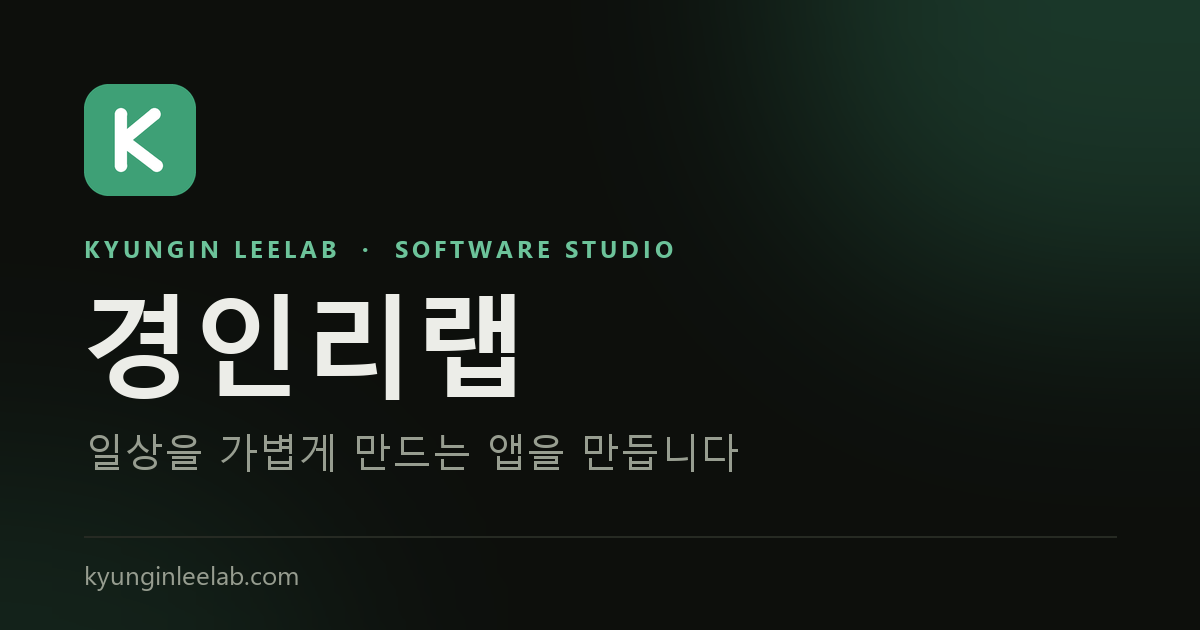
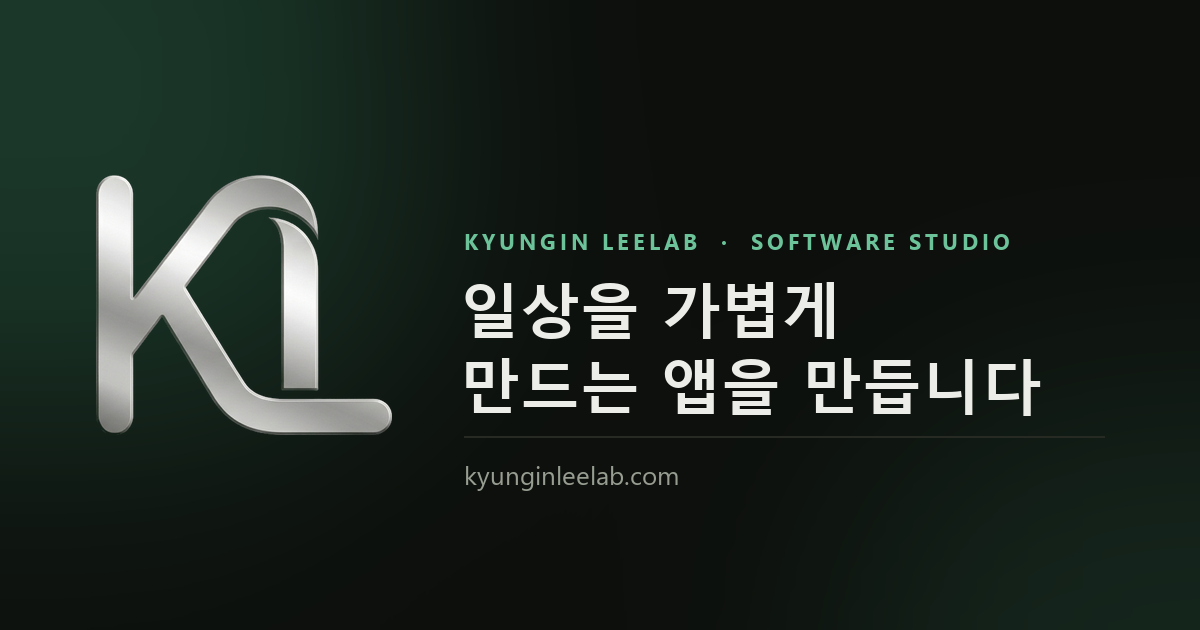
로고를 KL 모노그램(누끼)으로 교체 · 히어로 하단 페이드 보강 · 기능 순서(달력 ↔ 한식) 교체
- public/brand/logo.png(투명 배경) 를 헤더·푸터·404 에 이미지로 사용, 아이콘·파비콘·애플 아이콘·OG 이미지·
  JSON-LD 로고(icon-1024) 재생성. 옛 K 마크 SVG/PNG 제거
- hero-fade: 82% 지점부터 완전한 배경색 — 영상이 끝나는 경계가 하단에 비치던 문제
- CaloSnap features 순서: 달력 → 한식 (스크린샷 짝도 맞음)

Claude-Session: https://claude.ai/code/session_01Kz66iNqtNLXmN9QKuHDjFv

diff --git a/components/logo.tsx b/components/logo.tsx
@@ -1,29 +1,27 @@
-// 경인리랩 마크 — K 모노그램. 배경은 --accent 를 따라가서 라이트/다크 모두 맞는다.
-// 원본 SVG: public/brand/logo-mark.svg (아이콘·OG 이미지도 같은 도형에서 생성)
+import Image from "next/image";
+
+// 원본 public/brand/logo.png (누끼 딴 KL 모노그램) 의 가로/세로 비율
+const ASPECT = 451 / 396;
+
+/** 경인리랩 KL 로고. size = 높이(px). 장식용이라 alt 는 비운다 — 링크 쪽에 aria-label 을 준다. */
 export default function LogoMark({
   size = 28,
   className = "",
+  priority = false,
 }: {
   size?: number;
   className?: string;
+  priority?: boolean;
 }) {
   return (
-    <svg
-      viewBox="0 0 100 100"
-      width={size}
+    <Image
+      src="/brand/logo.png"
+      alt=""
+      width={Math.round(size * ASPECT)}
       height={size}
-      aria-hidden="true"
+      priority={priority}
       className={className}
-    >
-      <rect width="100" height="100" rx="22" fill="var(--accent)" />
-      <path
-        d="M33 27v46M35 50l28-23M35 50l30 23"
-        fill="none"
-        stroke="#fff"
-        strokeWidth="11"
-        strokeLinecap="round"
-        strokeLinejoin="round"
-      />
-    </svg>
+      style={{ height: size, width: "auto" }}
+    />
   );
 }

diff --git a/content/apps.ts b/content/apps.ts
@@ -56,14 +56,14 @@ export const apps: AppEntry[] = [
         body: "식사 기록·통계·사진은 전부 내 폰에만 저장됩니다. 계정에는 구독 정보만 담기고 기록은 서버로 가지 않습니다. AI 분석 순간에만 사진 한 장이 암호화되어 전달되고, 서버에 저장되지 않습니다.",
       },
       {
-        emoji: "🍽",
-        title: "한식에 강합니다",
-        body: "비빔밥, 김치찌개, 삼겹살 — 한식 데이터베이스를 기반으로 음식을 인식하고 1인분 기준 중량을 제안합니다. 중량을 조절하면 칼로리가 다시 계산됩니다.",
-      },
-      {
         emoji: "📅",
         title: "달력으로 한 달을 봅니다",
         body: "날짜마다 목표 대비 섭취량이 링으로 표시되어, 어느 날이 무거웠는지 한눈에 보입니다.",
+      },
+      {
+        emoji: "🍽",
+        title: "한식에 강합니다",
+        body: "비빔밥, 김치찌개, 삼겹살 — 한식 데이터베이스를 기반으로 음식을 인식하고 1인분 기준 중량을 제안합니다. 중량을 조절하면 칼로리가 다시 계산됩니다.",
       },
     ],
     pricing: {

diff --git a/components/hero-video.tsx b/components/hero-video.tsx
@@ -90,9 +90,9 @@ export default function HeroVideoBackground({
           }}
         />
       ))}
-      {/* 영상을 연하게 — 배경색으로 눌러 텍스트가 항상 읽히게 한다 */}
+      {/* 영상을 연하게 — 배경색으로 눌러 텍스트가 항상 읽히게 하고, 아래쪽은 영상이 끝나기 전에 완전히 배경색이 되게 한다 */}
       <div className="absolute inset-0 bg-bg/70" />
-      <div className="absolute inset-0 bg-gradient-to-b from-bg/30 via-transparent to-bg" />
+      <div className="hero-fade absolute inset-0" />
     </div>
   );
 }

diff --git a/app/globals.css b/app/globals.css
@@ -107,6 +107,18 @@ body::before {
     var(--bg);
 }
 
+/* 히어로 영상 위 페이드 — 위는 살짝, 아래는 80% 지점부터 완전한 배경색 (영상 끝 경계가 비치지 않게) */
+.hero-fade {
+  background: linear-gradient(
+    180deg,
+    color-mix(in srgb, var(--bg) 35%, transparent) 0%,
+    transparent 38%,
+    color-mix(in srgb, var(--bg) 70%, transparent) 66%,
+    var(--bg) 82%,
+    var(--bg) 100%
+  );
+}
+
 /* 섹션 배경 띠 — 경계선 없이 위아래로 스르르 스며들어 한 장처럼 이어진다 */
 .band {
   background: linear-gradient(

diff --git a/components/header.tsx b/components/header.tsx
@@ -19,7 +19,7 @@ export default function Header() {
           aria-label={`${site.name} 홈`}
           className="flex items-center gap-3"
         >
-          <LogoMark size={28} />
+          <LogoMark size={26} priority />
           <span className="hidden text-[11px] font-semibold uppercase tracking-[0.2em] text-muted min-[400px]:inline">
             {site.nameEn}
           </span>

diff --git a/app/layout.tsx b/app/layout.tsx
@@ -51,7 +51,7 @@ const organizationLd = {
   alternateName: [site.nameEn, site.legalNameEn],
   legalName: site.legalNameEn,
   url: site.url,
-  logo: `${site.url}/brand/logo-mark.png`,
+  logo: `${site.url}/brand/icon-1024.png`,
   foundingDate: "2026",
   founder: { "@type": "Person", name: site.business.representative },
   address: {
